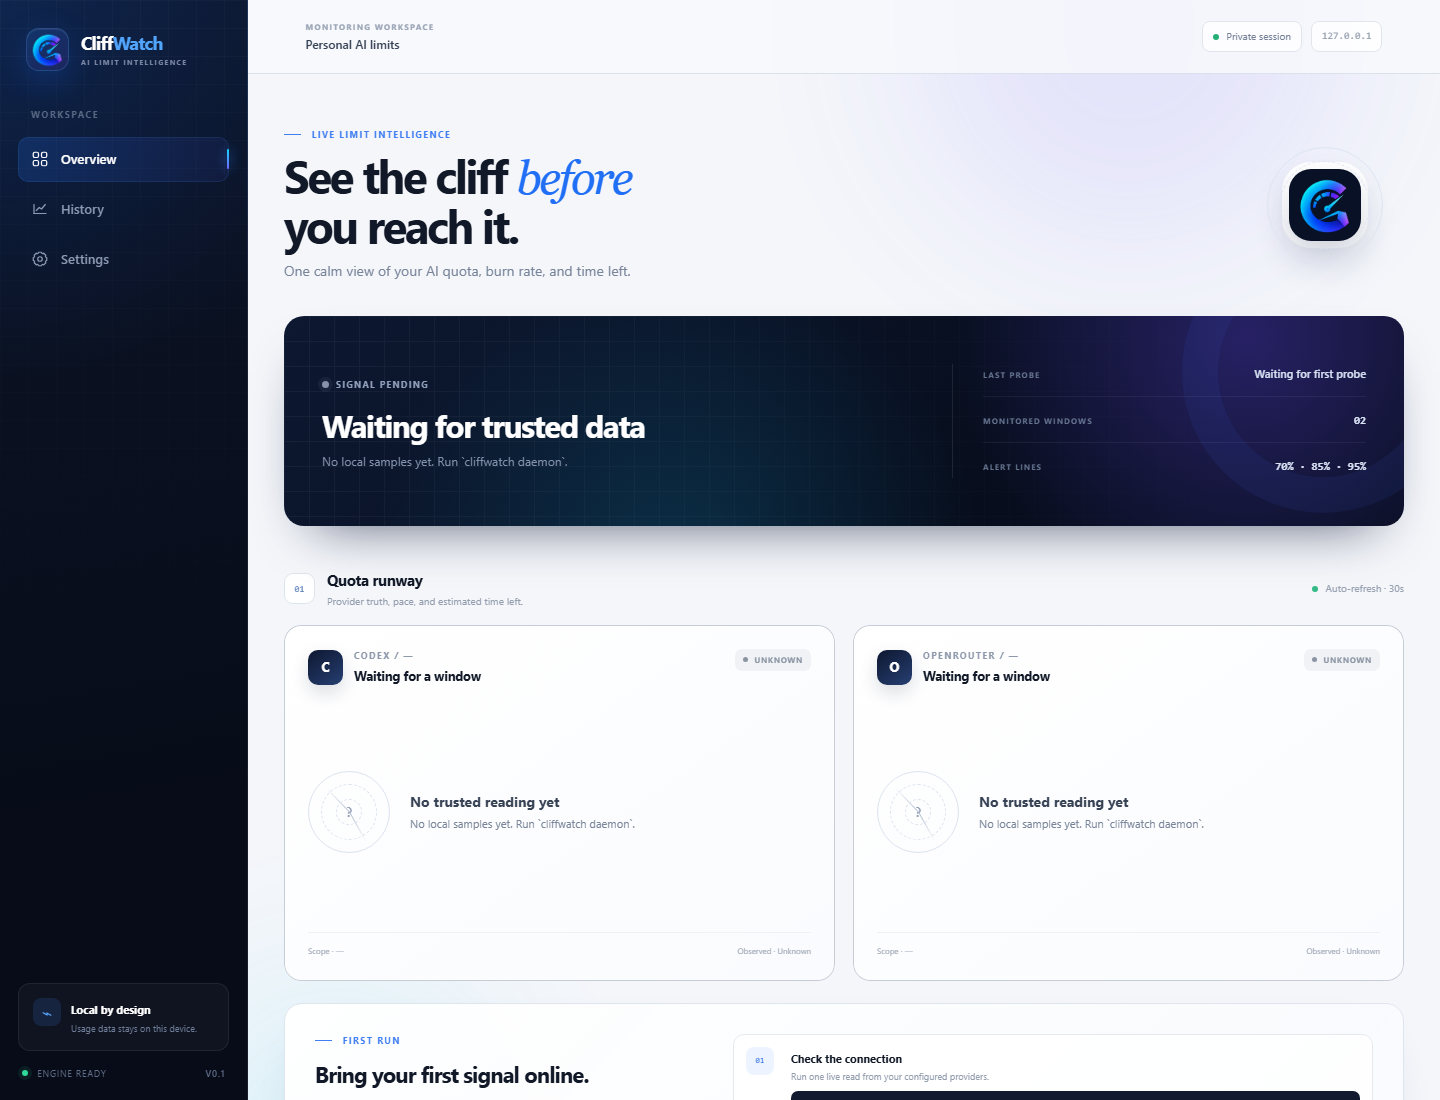
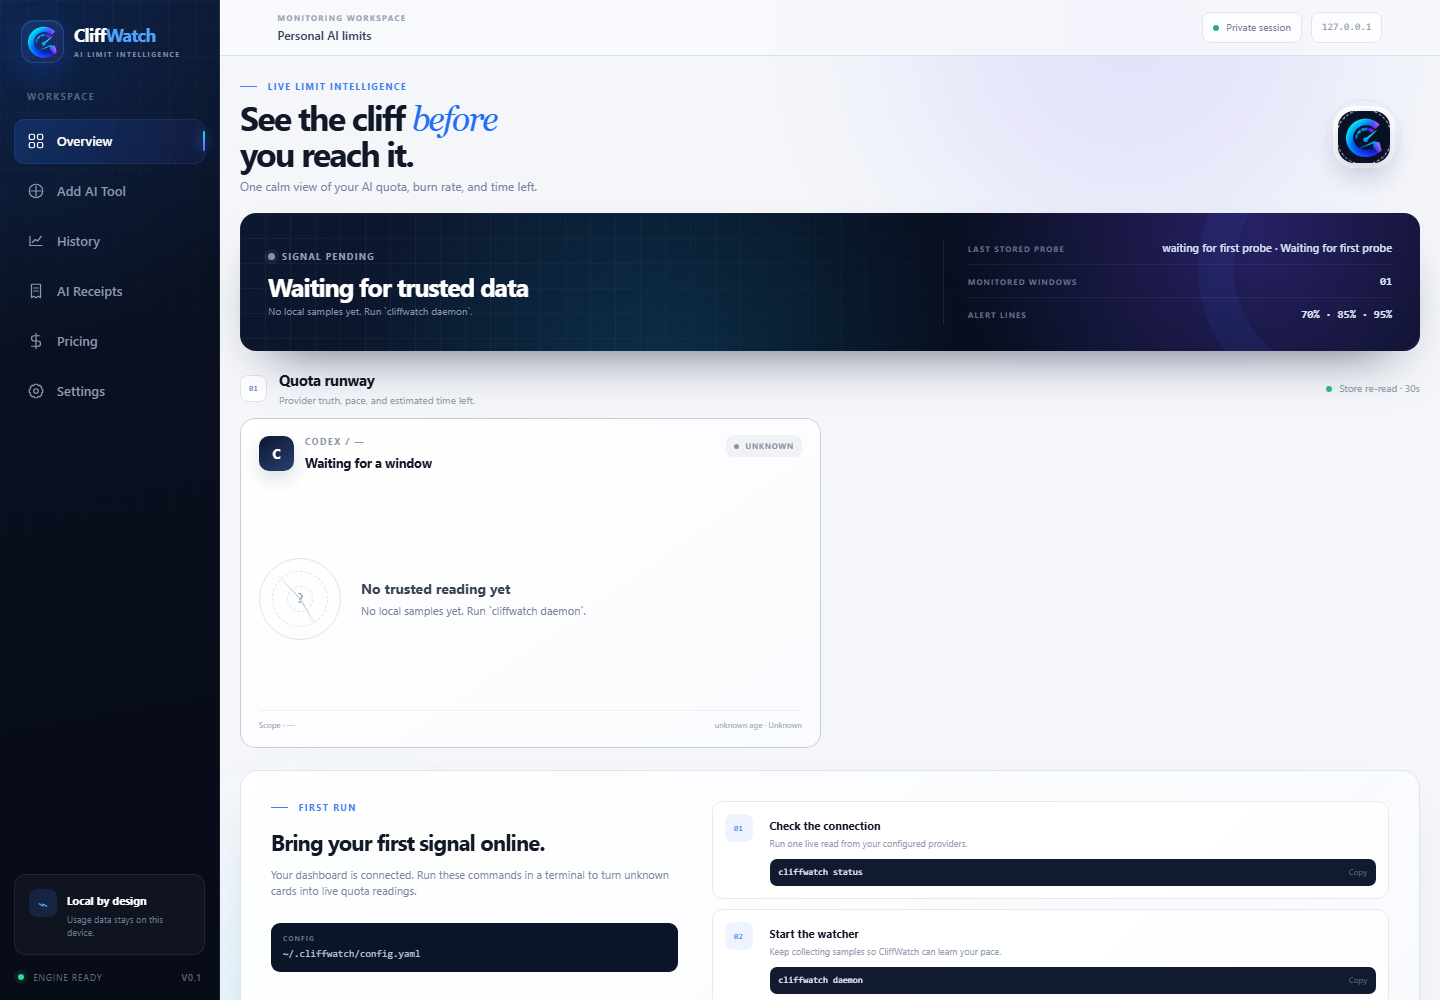
docs: refresh dashboard screenshot and navigation

diff --git a/README.md b/README.md
@@ -83,7 +83,7 @@ channels:
 
 For another free alert destination, configure an ntfy topic URL, Telegram bot, Discord webhook or generic webhook as shown in the example. `cliffwatch test-alert` sends a **real** message to the first configured channel. The daemon retries failed delivery with backoff and then tries fallback channels in order. A crash after an external service accepts a message but before SQLite records success can produce a duplicate; webhook consumers should be idempotent.
 
-Available commands are `status [--json] [--verbose]`, `sync-now`, `daemon [--once]`, `history [provider] [--json]`, `test-alert` and `dashboard`. Each accepts `--config PATH`. `sync-now` runs one poll and persists it so the dashboard can re-read the latest snapshot. The dashboard shows Overview, Add AI Tool, seven-day History and Settings. It binds to `127.0.0.1`, rejects other Host values, and requires a same-origin request for connection tests, saves and test alerts. Dashboard responses never expose secret values.
+Available commands are `status [--json] [--verbose]`, `sync-now`, `daemon [--once]`, `history [provider] [--json]`, `test-alert` and `dashboard`. Each accepts `--config PATH`. `sync-now` runs one poll and persists it so the dashboard can re-read the latest snapshot. The dashboard shows Overview, Add AI Tool, seven-day History, AI Receipts, Pricing and Settings. It binds to `127.0.0.1`, rejects other Host values, and requires a same-origin request for connection tests, saves and test alerts. Dashboard responses never expose secret values.
 
 ![CliffWatch dashboard overview and first-run guide](docs/screenshots/cliffwatch-overview-desktop.png)
 
